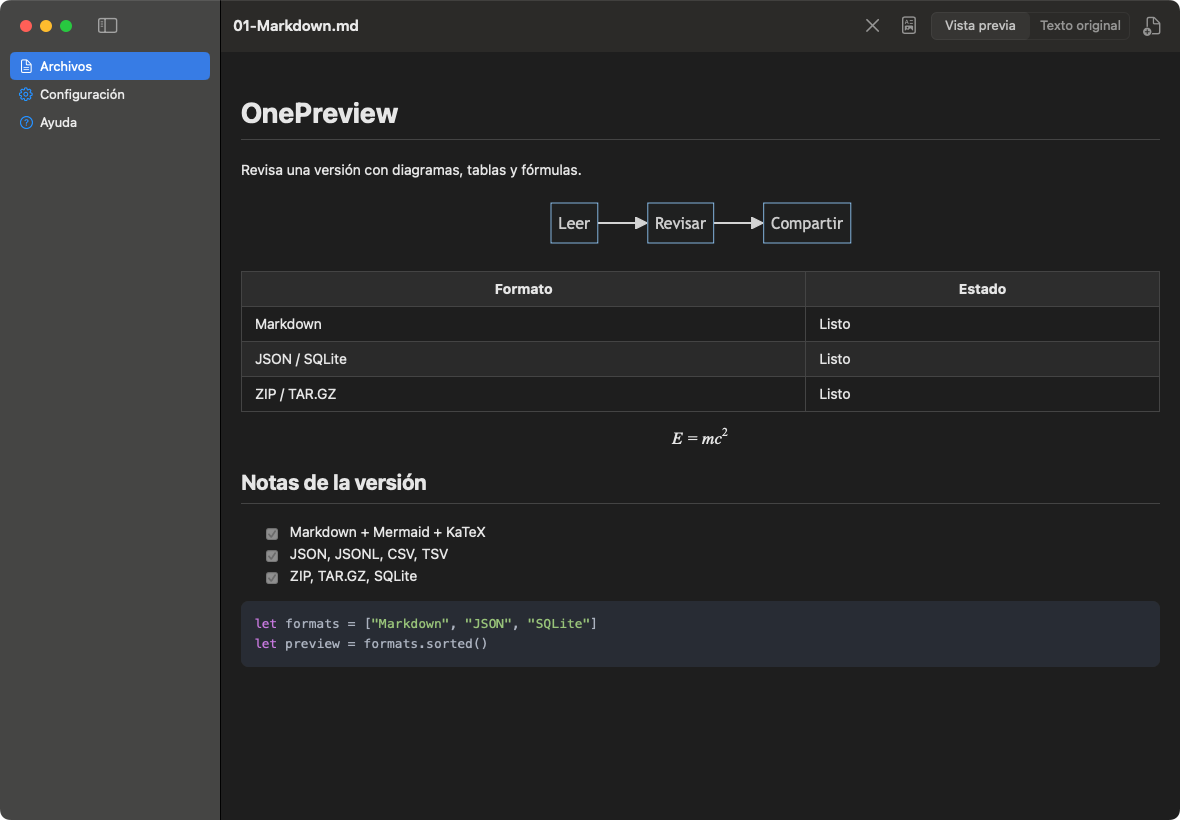
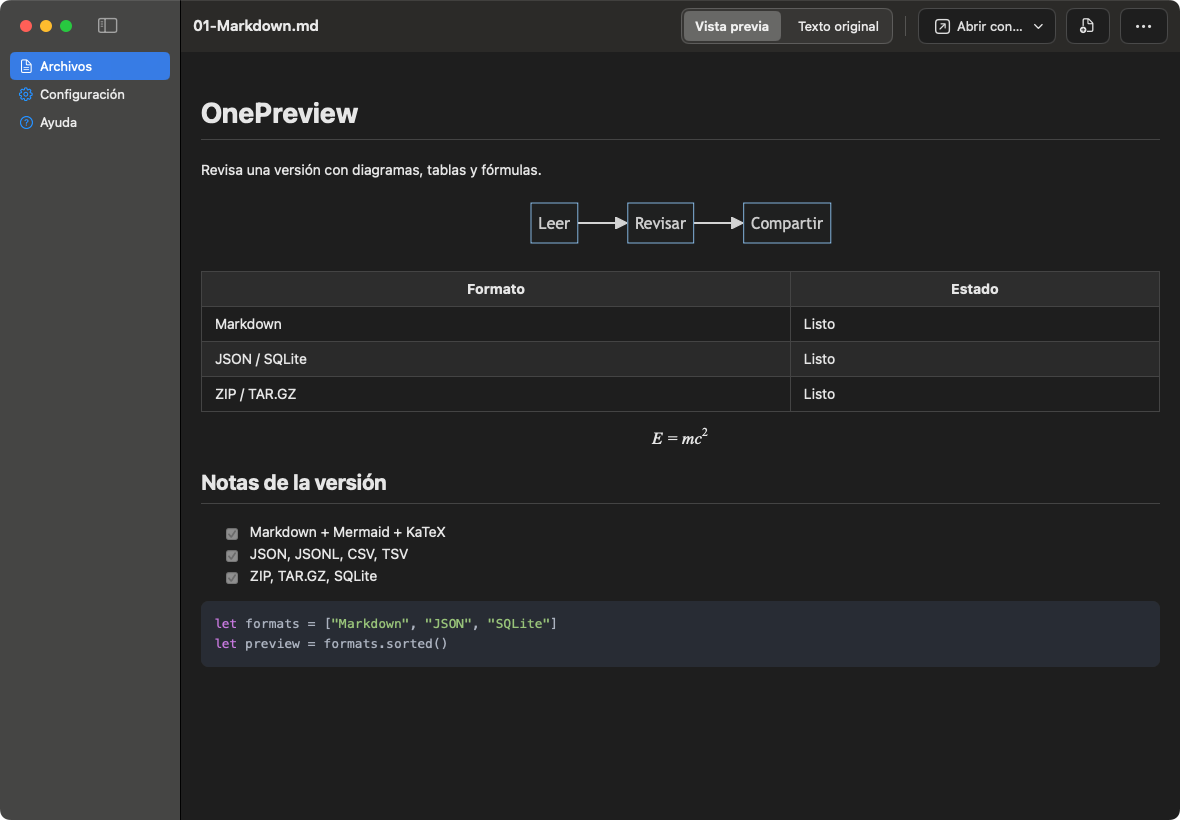
更新十一种语言的 1.4.7 真实截图并标明界面预览版本

diff --git a/index.html b/index.html
@@ -73,7 +73,7 @@ A clearer view.</h1>
       <a class="button ghost" href="/tools/markdown-to-pdf/">Markdown to PDF online</a>
     </div><div class="format-rail" aria-hidden="true"><span>.md</span><span>.json</span><span>.zip</span><span>.sqlite</span><span>.swift</span></div>
           </div>
-  <figure class="product-panel document-example"><img class="app-screenshot" src="/images/previews/en.png" alt="Markdown with a diagram, table and formula in OnePreview for Mac" width="1180" height="820" fetchpriority="high" decoding="async"><figcaption class="preview-caption"><span>OnePreview · macOS</span><span>Markdown · Mermaid · KaTeX</span></figcaption></figure>
+  <figure class="product-panel document-example"><img class="app-screenshot" src="/images/previews/en.png?v=1.4.7-153" alt="Markdown with a diagram, table and formula in OnePreview for Mac" width="1180" height="820" fetchpriority="high" decoding="async"><figcaption class="preview-caption"><span>OnePreview · macOS · 1.4.7</span><span>UI preview; App Store version may differ.</span></figcaption></figure>
 </section>
         <section class="section trust-strip" aria-label="OnePreview highlights"><div><strong>No account</strong><span>Install once and preview files locally.</span></div><div><strong>Local previews</strong><span>Files stay in Apple preview mechanisms.</span></div><div><strong>Free app</strong><span>Available on the App Store.</span></div></section>
         <section class="section focus-section"><p class="section-kicker">Markdown Preview</p><h2>Markdown, as it was meant to read.</h2><div class="feature-grid"><article class="feature"><strong>GitHub-style rendering</strong><p>Preview headings, tables, task lists, fenced code blocks, alerts and documentation-style Markdown without opening a full editor.</p></article><article class="feature"><strong>MDX, TextBundle, TextPack</strong><p>Open common Markdown package formats as readable documents instead of plain folders or archives.</p></article><article class="feature"><strong>Mermaid and KaTeX built in</strong><p>Render diagrams, charts and math formulas using bundled assets, so common Markdown documents work offline.</p></article><article class="feature"><strong>Rendered or raw</strong><p>Switch between the readable HTML preview and the original Markdown source whenever you need to inspect exact syntax.</p></article></div></section>

diff --git a/hi/index.html b/hi/index.html
@@ -74,7 +74,7 @@
       <a class="button ghost" href="/hi/tools/markdown-to-pdf/">Markdown से PDF</a>
     </div><div class="format-rail" aria-hidden="true"><span>.md</span><span>.json</span><span>.zip</span><span>.sqlite</span><span>.swift</span></div>
           </div>
-  <figure class="product-panel document-example"><img class="app-screenshot" src="/images/previews/hi.png" alt="Mac के लिए OnePreview में आरेख, तालिका और सूत्र वाला Markdown दस्तावेज़" width="1180" height="820" fetchpriority="high" decoding="async"><figcaption class="preview-caption"><span>OnePreview · macOS</span><span>Markdown · Mermaid · KaTeX</span></figcaption></figure>
+  <figure class="product-panel document-example"><img class="app-screenshot" src="/images/previews/hi.png?v=1.4.7-153" alt="Mac के लिए OnePreview में आरेख, तालिका और सूत्र वाला Markdown दस्तावेज़" width="1180" height="820" fetchpriority="high" decoding="async"><figcaption class="preview-caption"><span>OnePreview · macOS · 1.4.7</span><span>इंटरफ़ेस का पूर्वावलोकन; App Store का संस्करण अलग हो सकता है।</span></figcaption></figure>
 </section>
         <section class="section trust-strip" aria-label="OnePreview की प्रमुख खूबियाँ"><div><strong>खाते की जरूरत नहीं</strong><span>एक बार install करें और files को local preview करें।</span></div><div><strong>स्थानीय प्रीव्यू</strong><span>फ़ाइलें Apple के प्रीव्यू तंत्र के भीतर ही रहती हैं।</span></div><div><strong>मुफ़्त ऐप</strong><span>App Store पर उपलब्ध।</span></div></section>
         <section class="section focus-section"><p class="section-kicker">Markdown प्रीव्यू</p><h2>Markdown,

diff --git a/ru/index.html b/ru/index.html
@@ -74,7 +74,7 @@
       <a class="button ghost" href="/ru/tools/markdown-to-pdf/">Markdown в PDF</a>
     </div><div class="format-rail" aria-hidden="true"><span>.md</span><span>.json</span><span>.zip</span><span>.sqlite</span><span>.swift</span></div>
           </div>
-  <figure class="product-panel document-example"><img class="app-screenshot" src="/images/previews/ru.png" alt="Markdown с диаграммой, таблицей и формулой в OnePreview для Mac" width="1180" height="820" fetchpriority="high" decoding="async"><figcaption class="preview-caption"><span>OnePreview · macOS</span><span>Markdown · Mermaid · KaTeX</span></figcaption></figure>
+  <figure class="product-panel document-example"><img class="app-screenshot" src="/images/previews/ru.png?v=1.4.7-153" alt="Markdown с диаграммой, таблицей и формулой в OnePreview для Mac" width="1180" height="820" fetchpriority="high" decoding="async"><figcaption class="preview-caption"><span>OnePreview · macOS · 1.4.7</span><span>Предпросмотр интерфейса; версия в App Store может отличаться.</span></figcaption></figure>
 </section>
         <section class="section trust-strip" aria-label="Преимущества OnePreview"><div><strong>Без аккаунта</strong><span>Установите один раз и просматривайте файлы локально.</span></div><div><strong>Локальный просмотр</strong><span>Файлы остаются в механизмах предпросмотра Apple.</span></div><div><strong>Бесплатное приложение</strong><span>Доступно в App Store.</span></div></section>
         <section class="section focus-section"><p class="section-kicker">Предпросмотр Markdown</p><h2>Markdown,

diff --git a/ja/index.html b/ja/index.html
@@ -74,7 +74,7 @@
       <a class="button ghost" href="/ja/tools/markdown-to-pdf/">MarkdownをPDFに</a>
     </div><div class="format-rail" aria-hidden="true"><span>.md</span><span>.json</span><span>.zip</span><span>.sqlite</span><span>.swift</span></div>
           </div>
-  <figure class="product-panel document-example"><img class="app-screenshot" src="/images/previews/ja.png" alt="Mac版OnePreviewで表示した図、表、数式を含むMarkdown文書" width="1180" height="820" fetchpriority="high" decoding="async"><figcaption class="preview-caption"><span>OnePreview · macOS</span><span>Markdown · Mermaid · KaTeX</span></figcaption></figure>
+  <figure class="product-panel document-example"><img class="app-screenshot" src="/images/previews/ja.png?v=1.4.7-153" alt="Mac版OnePreviewで表示した図、表、数式を含むMarkdown文書" width="1180" height="820" fetchpriority="high" decoding="async"><figcaption class="preview-caption"><span>OnePreview · macOS · 1.4.7</span><span>画面プレビュー。App Store のバージョンと異なる場合があります。</span></figcaption></figure>
 </section>
         <section class="section trust-strip" aria-label="OnePreview の特長"><div><strong>アカウント不要</strong><span>一度インストールすれば、ファイルをローカル表示できます。</span></div><div><strong>ローカルプレビュー</strong><span>ファイルは Apple のプレビュー機構内で扱われます。</span></div><div><strong>無料アプリ</strong><span>App Storeで利用できます。</span></div></section>
         <section class="section focus-section"><p class="section-kicker">Markdown プレビュー</p><h2>Markdownを、

diff --git a/fr/index.html b/fr/index.html
@@ -74,7 +74,7 @@ en toute clarté.</h1>
       <a class="button ghost" href="/fr/tools/markdown-to-pdf/">Markdown en PDF</a>
     </div><div class="format-rail" aria-hidden="true"><span>.md</span><span>.json</span><span>.zip</span><span>.sqlite</span><span>.swift</span></div>
           </div>
-  <figure class="product-panel document-example"><img class="app-screenshot" src="/images/previews/fr.png" alt="Document Markdown avec diagramme, tableau et formule dans OnePreview pour Mac" width="1180" height="820" fetchpriority="high" decoding="async"><figcaption class="preview-caption"><span>OnePreview · macOS</span><span>Markdown · Mermaid · KaTeX</span></figcaption></figure>
+  <figure class="product-panel document-example"><img class="app-screenshot" src="/images/previews/fr.png?v=1.4.7-153" alt="Document Markdown avec diagramme, tableau et formule dans OnePreview pour Mac" width="1180" height="820" fetchpriority="high" decoding="async"><figcaption class="preview-caption"><span>OnePreview · macOS · 1.4.7</span><span>Aperçu de l’interface ; la version de l’App Store peut différer.</span></figcaption></figure>
 </section>
         <section class="section trust-strip" aria-label="Points forts de OnePreview"><div><strong>Sans compte</strong><span>Installez une fois et affichez les fichiers localement.</span></div><div><strong>Aperçus locaux</strong><span>Les fichiers restent dans les mécanismes de prévisualisation Apple.</span></div><div><strong>App gratuite</strong><span>Disponible sur l’App Store.</span></div></section>
         <section class="section focus-section"><p class="section-kicker">Aperçu Markdown</p><h2>Le Markdown,

diff --git a/ko/index.html b/ko/index.html
@@ -74,7 +74,7 @@
       <a class="button ghost" href="/ko/tools/markdown-to-pdf/">Markdown PDF 변환</a>
     </div><div class="format-rail" aria-hidden="true"><span>.md</span><span>.json</span><span>.zip</span><span>.sqlite</span><span>.swift</span></div>
           </div>
-  <figure class="product-panel document-example"><img class="app-screenshot" src="/images/previews/ko.png" alt="Mac용 OnePreview의 다이어그램, 표, 수식이 포함된 Markdown 문서" width="1180" height="820" fetchpriority="high" decoding="async"><figcaption class="preview-caption"><span>OnePreview · macOS</span><span>Markdown · Mermaid · KaTeX</span></figcaption></figure>
+  <figure class="product-panel document-example"><img class="app-screenshot" src="/images/previews/ko.png?v=1.4.7-153" alt="Mac용 OnePreview의 다이어그램, 표, 수식이 포함된 Markdown 문서" width="1180" height="820" fetchpriority="high" decoding="async"><figcaption class="preview-caption"><span>OnePreview · macOS · 1.4.7</span><span>UI 미리보기입니다. App Store 버전과 다를 수 있습니다.</span></figcaption></figure>
 </section>
         <section class="section trust-strip" aria-label="OnePreview 주요 기능"><div><strong>계정 불필요</strong><span>한 번 설치하고 파일을 기기에서 미리 보세요.</span></div><div><strong>로컬 미리보기</strong><span>파일은 Apple 미리보기 메커니즘 안에서 처리됩니다.</span></div><div><strong>무료 앱</strong><span>App Store로 제공됩니다.</span></div></section>
         <section class="section focus-section"><p class="section-kicker">Markdown 미리보기</p><h2>Markdown을

diff --git a/es-MX/index.html b/es-MX/index.html
@@ -72,7 +72,7 @@ más claros.</h1>
       <a class="button ghost" href="/es-MX/tools/markdown-to-pdf/">Markdown a PDF en línea</a>
     </div><div class="format-rail" aria-hidden="true"><span>.md</span><span>.json</span><span>.zip</span><span>.sqlite</span><span>.swift</span></div>
           </div>
-  <figure class="product-panel document-example"><img class="app-screenshot" src="/images/previews/es-MX.png" alt="Markdown con diagrama, tabla y fórmula en OnePreview para Mac" width="1180" height="820" fetchpriority="high" decoding="async"><figcaption class="preview-caption"><span>OnePreview · macOS</span><span>Markdown · Mermaid · KaTeX</span></figcaption></figure>
+  <figure class="product-panel document-example"><img class="app-screenshot" src="/images/previews/es-MX.png?v=1.4.7-153" alt="Markdown con diagrama, tabla y fórmula en OnePreview para Mac" width="1180" height="820" fetchpriority="high" decoding="async"><figcaption class="preview-caption"><span>OnePreview · macOS · 1.4.7</span><span>Vista previa de la interfaz; la versión de App Store puede ser diferente.</span></figcaption></figure>
 </section>
         <section class="section trust-strip" aria-label="OnePreview highlights"><div><strong>Sin cuenta</strong><span>Instala la app y revisa tus archivos localmente.</span></div><div><strong>Vistas previas locales</strong><span>Los archivos se procesan en tu dispositivo.</span></div><div><strong>App gratuita</strong><span>Disponible en el App Store.</span></div></section>
         <section class="section focus-section"><p class="section-kicker">Vista previa de Markdown</p><h2>Markdown,

diff --git a/id/index.html b/id/index.html
@@ -74,7 +74,7 @@ lebih jelas.</h1>
       <a class="button ghost" href="/id/tools/markdown-to-pdf/">Markdown ke PDF</a>
     </div><div class="format-rail" aria-hidden="true"><span>.md</span><span>.json</span><span>.zip</span><span>.sqlite</span><span>.swift</span></div>
           </div>
-  <figure class="product-panel document-example"><img class="app-screenshot" src="/images/previews/id.png" alt="Markdown dengan diagram, tabel, dan rumus di OnePreview untuk Mac" width="1180" height="820" fetchpriority="high" decoding="async"><figcaption class="preview-caption"><span>OnePreview · macOS</span><span>Markdown · Mermaid · KaTeX</span></figcaption></figure>
+  <figure class="product-panel document-example"><img class="app-screenshot" src="/images/previews/id.png?v=1.4.7-153" alt="Markdown dengan diagram, tabel, dan rumus di OnePreview untuk Mac" width="1180" height="820" fetchpriority="high" decoding="async"><figcaption class="preview-caption"><span>OnePreview · macOS · 1.4.7</span><span>Pratinjau antarmuka; versi App Store mungkin berbeda.</span></figcaption></figure>
 </section>
         <section class="section trust-strip" aria-label="Keunggulan OnePreview"><div><strong>Tanpa akun</strong><span>Instal sekali dan lihat file secara lokal.</span></div><div><strong>Pratinjau lokal</strong><span>File tetap berada dalam mekanisme pratinjau Apple.</span></div><div><strong>Aplikasi gratis</strong><span>Tersedia di App Store.</span></div></section>
         <section class="section focus-section"><p class="section-kicker">Pratinjau Markdown</p><h2>Markdown yang

diff --git a/zh-Hans/index.html b/zh-Hans/index.html
@@ -73,7 +73,7 @@
       <a class="button ghost" href="/zh-Hans/tools/markdown-to-pdf/">Markdown 在线转 PDF</a>
     </div><div class="format-rail" aria-hidden="true"><span>.md</span><span>.json</span><span>.zip</span><span>.sqlite</span><span>.swift</span></div>
           </div>
-  <figure class="product-panel document-example"><img class="app-screenshot" src="/images/previews/zh-Hans.png" alt="OnePreview Mac 版中的 Markdown 文档、流程图、表格和公式" width="1180" height="820" fetchpriority="high" decoding="async"><figcaption class="preview-caption"><span>OnePreview · macOS</span><span>Markdown · Mermaid · KaTeX</span></figcaption></figure>
+  <figure class="product-panel document-example"><img class="app-screenshot" src="/images/previews/zh-Hans.png?v=1.4.7-153" alt="OnePreview Mac 版中的 Markdown 文档、流程图、表格和公式" width="1180" height="820" fetchpriority="high" decoding="async"><figcaption class="preview-caption"><span>OnePreview · macOS · 1.4.7</span><span>界面预览；App Store 版本可能不同。</span></figcaption></figure>
 </section>
         <section class="section trust-strip" aria-label="OnePreview 亮点"><div><strong>无需账户</strong><span>安装一次，即可在本地查看文件。</span></div><div><strong>本机预览</strong><span>文件留在 Apple 系统预览机制内处理。</span></div><div><strong>免费使用</strong><span>提供 App Store 版本。</span></div></section>
         <section class="section focus-section"><p class="section-kicker">Markdown 预览</p><h2>Markdown，

diff --git a/de/index.html b/de/index.html
@@ -74,7 +74,7 @@ Klar im Blick.</h1>
       <a class="button ghost" href="/de/tools/markdown-to-pdf/">Markdown zu PDF</a>
     </div><div class="format-rail" aria-hidden="true"><span>.md</span><span>.json</span><span>.zip</span><span>.sqlite</span><span>.swift</span></div>
           </div>
-  <figure class="product-panel document-example"><img class="app-screenshot" src="/images/previews/de.png" alt="Markdown mit Diagramm, Tabelle und Formel in OnePreview für Mac" width="1180" height="820" fetchpriority="high" decoding="async"><figcaption class="preview-caption"><span>OnePreview · macOS</span><span>Markdown · Mermaid · KaTeX</span></figcaption></figure>
+  <figure class="product-panel document-example"><img class="app-screenshot" src="/images/previews/de.png?v=1.4.7-153" alt="Markdown mit Diagramm, Tabelle und Formel in OnePreview für Mac" width="1180" height="820" fetchpriority="high" decoding="async"><figcaption class="preview-caption"><span>OnePreview · macOS · 1.4.7</span><span>UI-Vorschau; die App-Store-Version kann abweichen.</span></figcaption></figure>
 </section>
         <section class="section trust-strip" aria-label="OnePreview-Vorteile"><div><strong>Kein Konto</strong><span>Einmal installieren und Dateien lokal anzeigen.</span></div><div><strong>Lokale Vorschauen</strong><span>Dateien bleiben in Apples Vorschau-Mechanismen.</span></div><div><strong>Kostenlose App</strong><span>Im App Store erhältlich.</span></div></section>
         <section class="section focus-section"><p class="section-kicker">Markdown-Vorschau</p><h2>Markdown,

diff --git a/zh-Hant/index.html b/zh-Hant/index.html
@@ -74,7 +74,7 @@
       <a class="button ghost" href="/zh-Hant/tools/markdown-to-pdf/">Markdown 轉 PDF</a>
     </div><div class="format-rail" aria-hidden="true"><span>.md</span><span>.json</span><span>.zip</span><span>.sqlite</span><span>.swift</span></div>
           </div>
-  <figure class="product-panel document-example"><img class="app-screenshot" src="/images/previews/zh-Hant.png" alt="OnePreview Mac 版中的 Markdown 文件、流程圖、表格與公式" width="1180" height="820" fetchpriority="high" decoding="async"><figcaption class="preview-caption"><span>OnePreview · macOS</span><span>Markdown · Mermaid · KaTeX</span></figcaption></figure>
+  <figure class="product-panel document-example"><img class="app-screenshot" src="/images/previews/zh-Hant.png?v=1.4.7-153" alt="OnePreview Mac 版中的 Markdown 文件、流程圖、表格與公式" width="1180" height="820" fetchpriority="high" decoding="async"><figcaption class="preview-caption"><span>OnePreview · macOS · 1.4.7</span><span>介面預覽；App Store 版本可能不同。</span></figcaption></figure>
 </section>
         <section class="section trust-strip" aria-label="OnePreview 亮點"><div><strong>無需帳號</strong><span>安裝一次，即可在本機檢視檔案。</span></div><div><strong>本機預覽</strong><span>檔案留在 Apple 的預覽機制中處理。</span></div><div><strong>免費使用</strong><span>可從 App Store 取得。</span></div></section>
         <section class="section focus-section"><p class="section-kicker">Markdown 預覽</p><h2>Markdown，

diff --git a/images/previews/README.md b/images/previews/README.md
@@ -1,5 +1,9 @@
 # Authentic App Previews
 
-These are unchanged, full-window captures of OnePreview 1.4.5 displaying the project's localized Markdown sample. They come from the 2026-10-15 native App Store screenshot run (`raw/mac/<locale>/01-markdown.png`) and are used as website product images, not as review/test evidence. The images retain their actual dark appearance, native window chrome and complete document area. They do not represent the web PDF converter and do not claim to show all features added in 1.4.6.
+These are unchanged, full-window captures of OnePreview 1.4.7 (build 153) displaying the project's localized Markdown sample. They were captured on 2026-10-27 from the development-signed universal Release archive used to export the App Store package. The captures use `scripts/capture_native_store_mac.py --captures 01-markdown` in the parent app repository, with no Finder restart, system appearance change or replacement of the installed app.
 
-Each landing page uses the matching document and UI language. Website locale `en` maps to capture `en-US`, `de` to `de-DE`, and `fr` to `fr-FR`; the other locale names match directly. Each original PNG is 1180 x 820. Do not stretch, crop, paint over, recreate the window or replace it with an invented mockup. Future screenshots should use only intentionally public sample content.
+The native source files are retained locally at `artifacts/website-captures-1.4.7-153-2026-10-27/mac/<locale>/01-markdown.png`. Website locale `en` maps to capture `en-US`, `de` to `de-DE`, and `fr` to `fr-FR`; the other locale names match directly. Each landing page uses its matching document and UI language. `manifest.json` records the exact image hashes and dimensions, checked by `tests/design-check.cjs`.
+
+Each original PNG is 1180 x 820. Images retain their actual dark appearance, native window chrome and complete document area, including the native compact toolbar in languages with longer labels. Do not stretch, crop, paint over, recreate the window or replace it with an invented mockup. Only intentionally public sample content is captured.
+
+These are native-app UI previews, not screenshots of the independent web PDF converter or proof of App Store release status. Each homepage identifies version 1.4.7 and states in its own language that the available App Store version may differ. The app's review status is deliberately not hard-coded into site copy.
